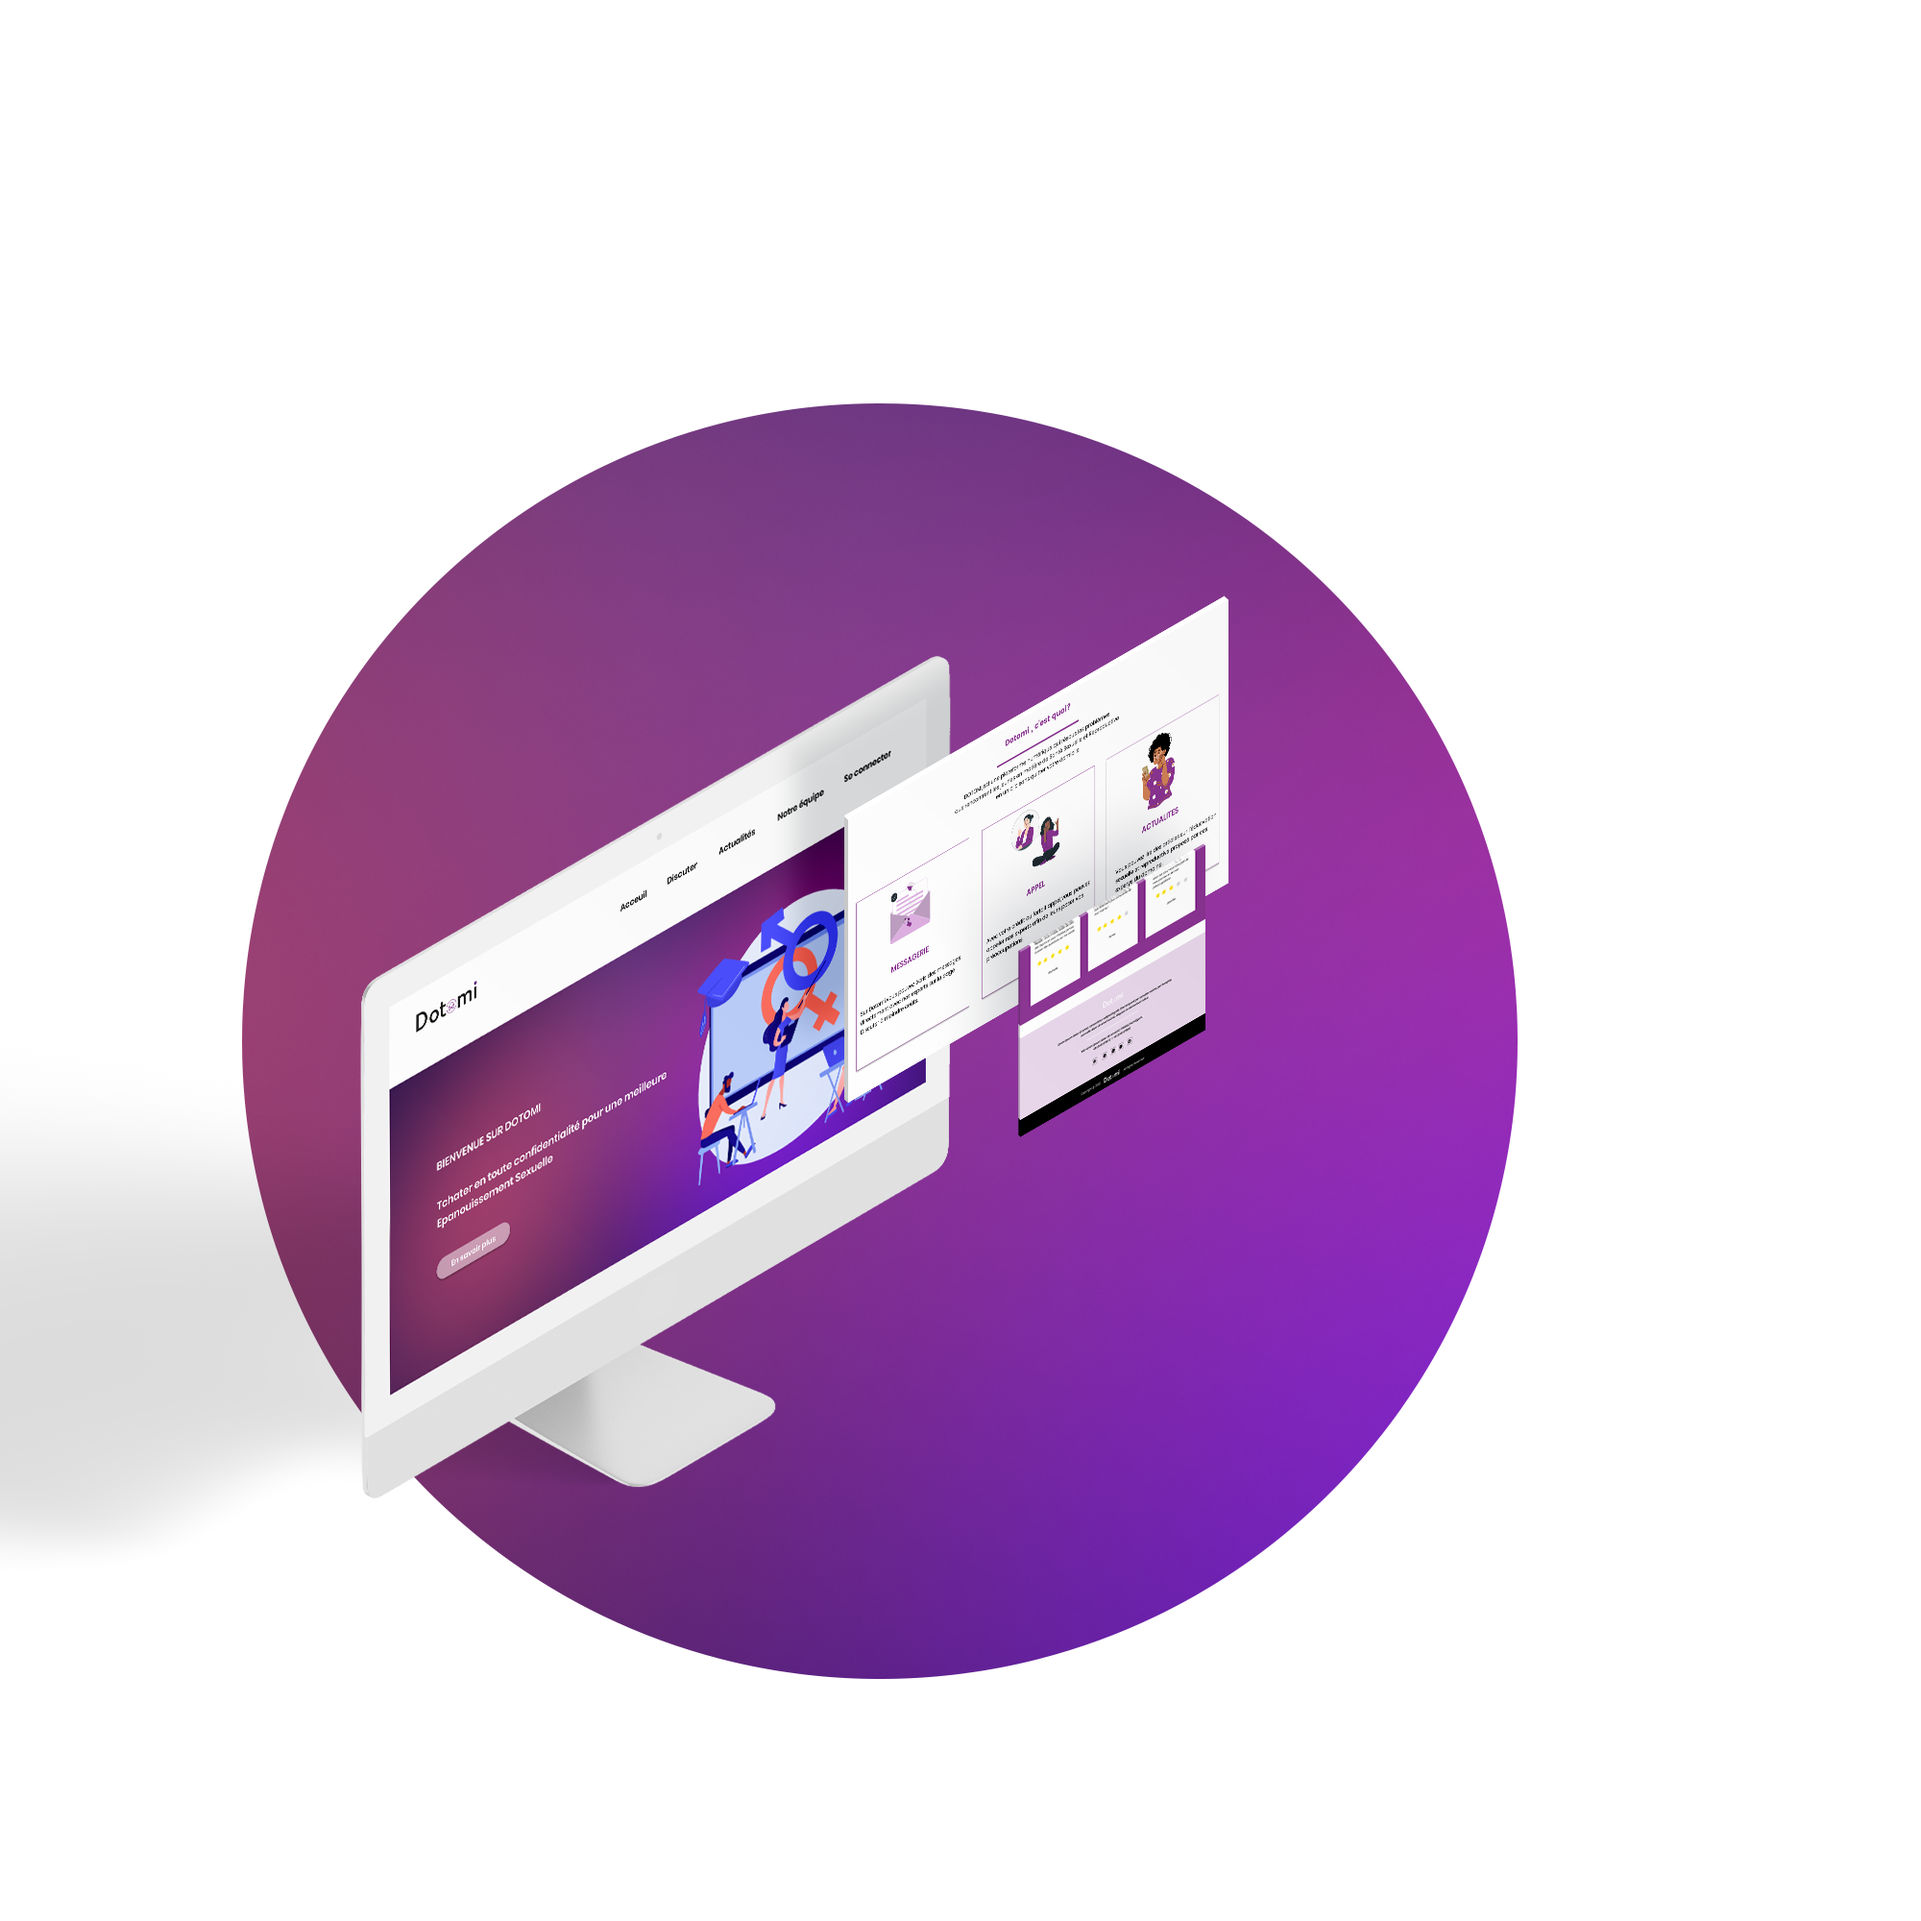
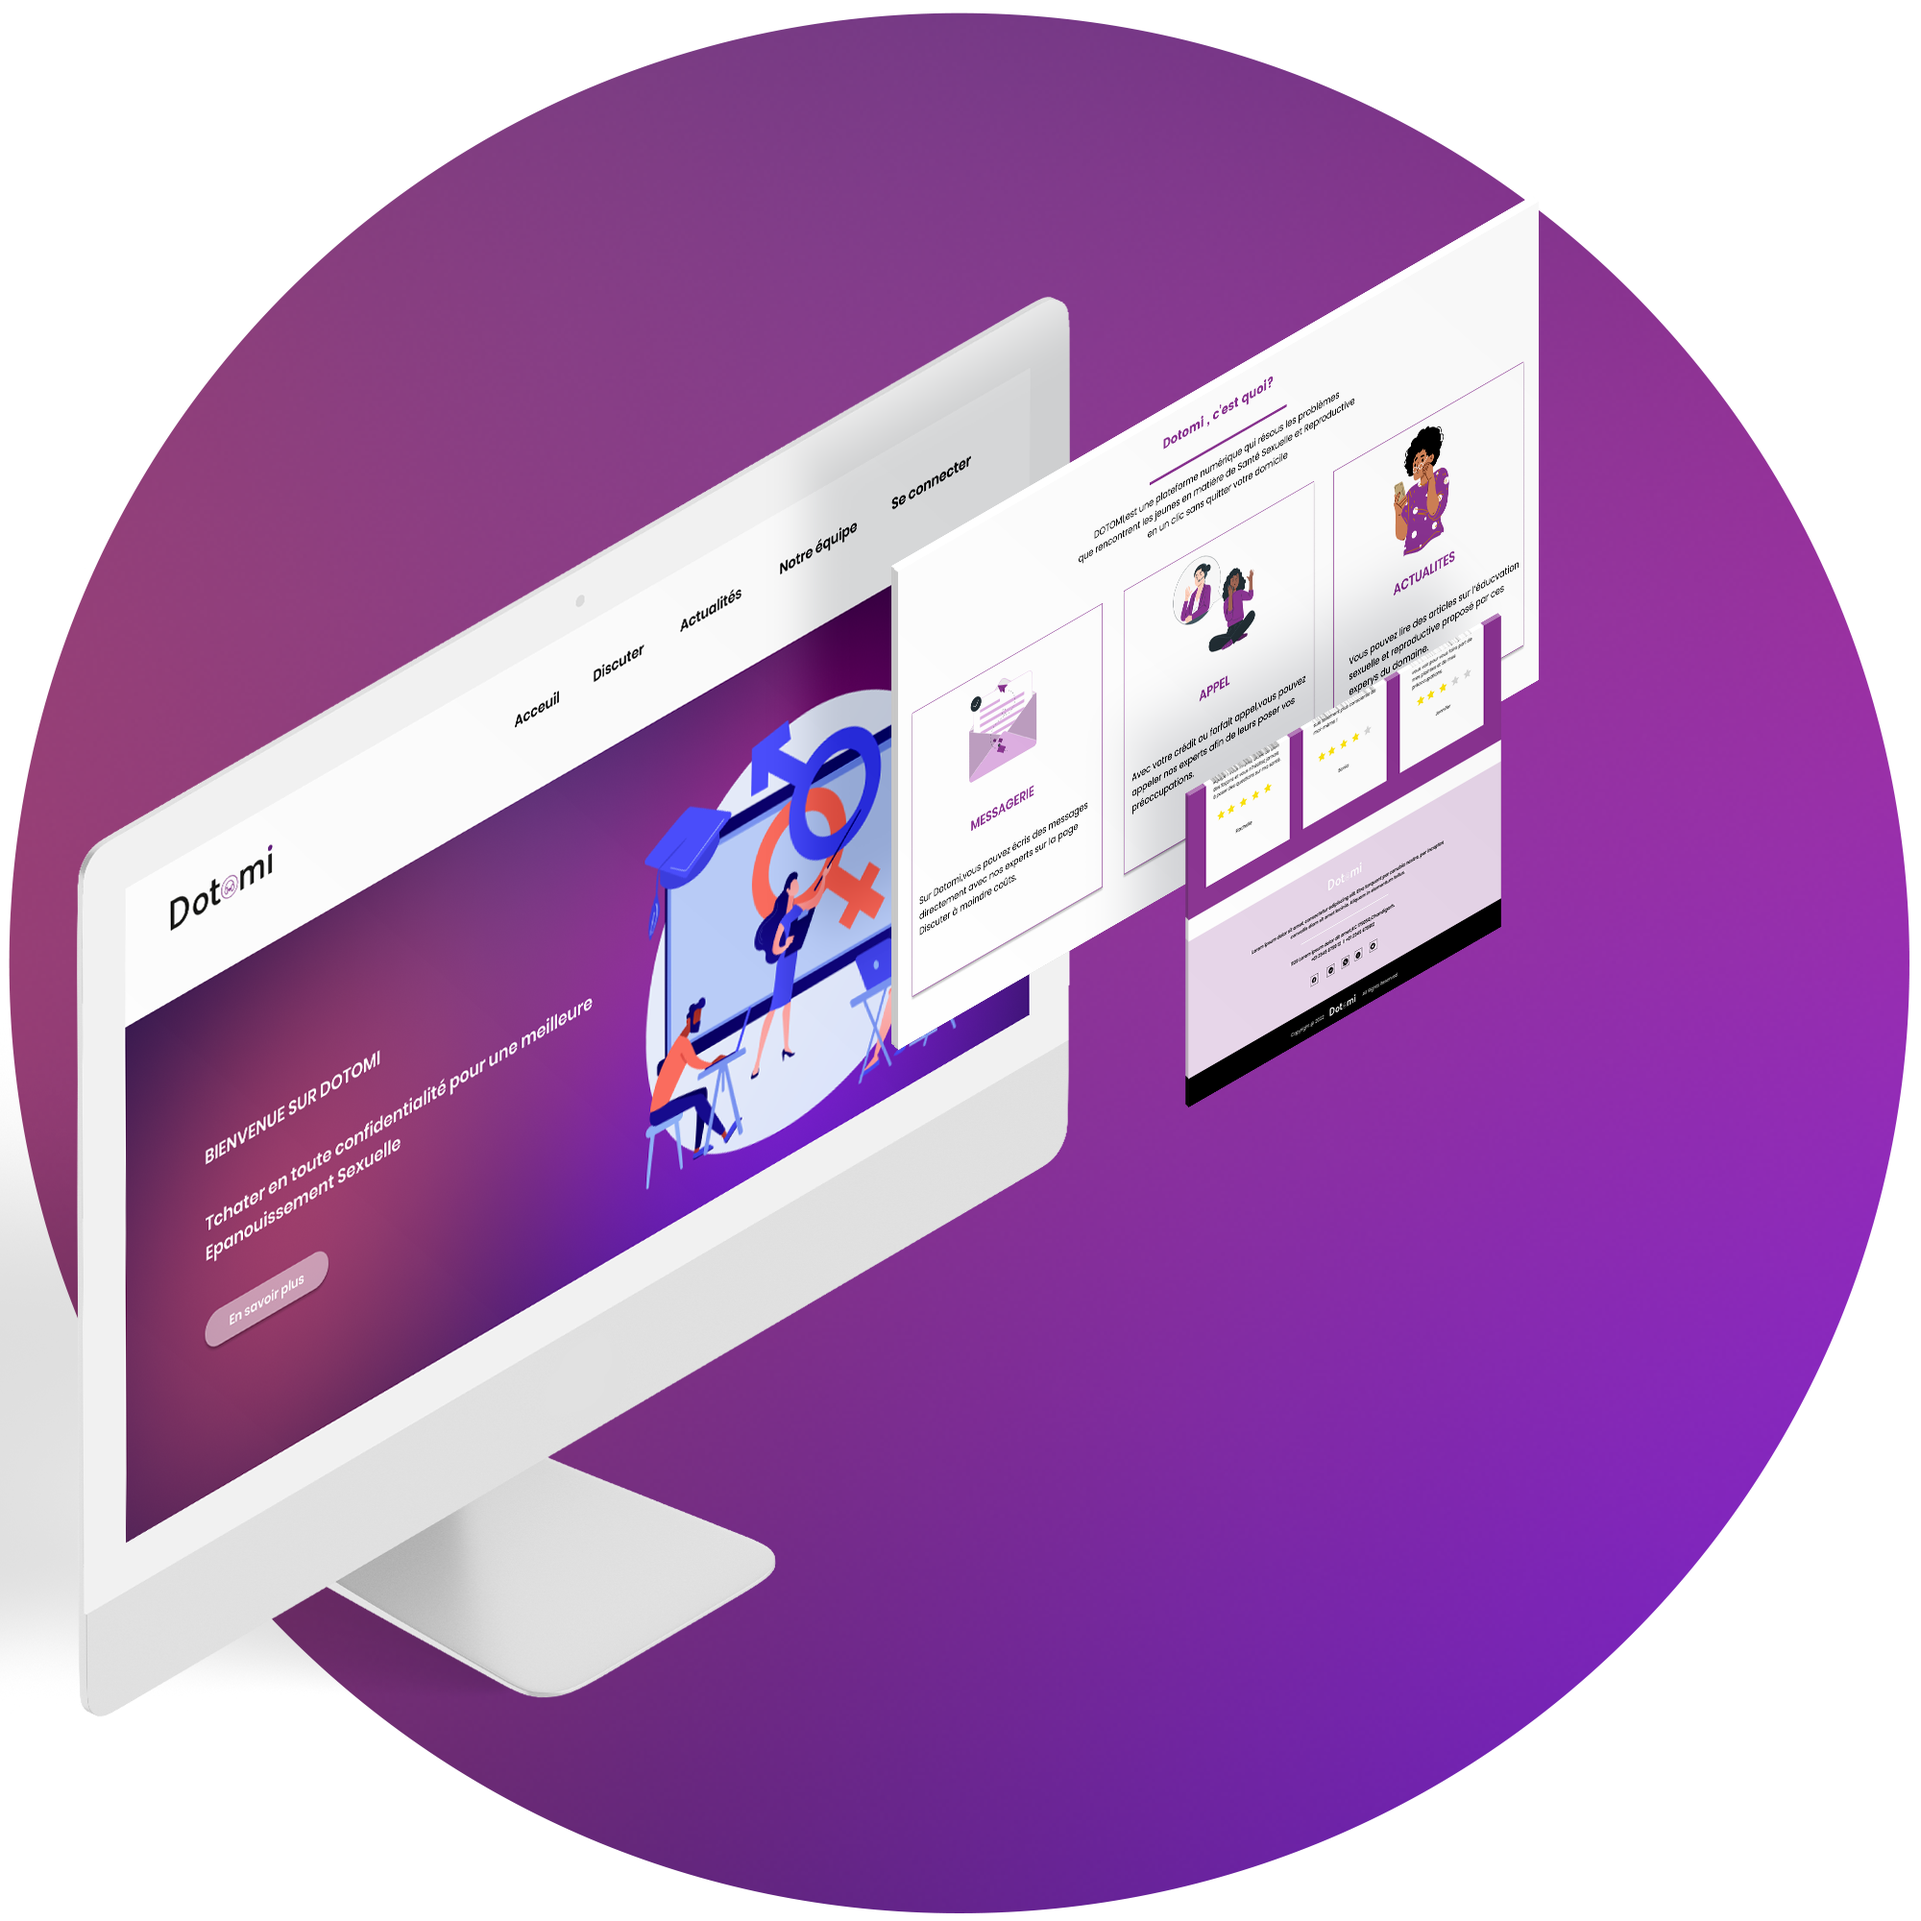
mise a jour

diff --git a/index.html b/index.html
@@ -128,24 +128,24 @@ https://templatemo.com/tm-540-lava-landing-page
                                 <img src="assets/images/about-icon-01.png" alt="">
                                 <div class="text">
                                     <h4>Messagerie</h4>
-                                    <p>Sur DOTOMI vous pouvez poser vos questions via la messagerie.<br> 
-                                    La messagerie est instantané  </p>
+                                    <p>Vous avez des préoccupations sur votre vie sexuelle ? Vous avez des questions qui vous taraude l'esprit ? 
+                                    La messagerie vous permet de discuter avec nos experts.</p>
                                 </div>
                             </li>
                             <li data-scroll-reveal="enter right move 30px over 0.6s after 0.5s">
                                 <img src="assets/images/about-icon-02.png" alt="">
                                 <div class="text">
                                     <h4>Actualités</h4>
-                                    <p>Sur DOTOMI la rubrique actualité vous permet d'avoir des informations sur la sexualité.
-                                    Vous pourriez  aussi lire  des articles sur l'évolution dans ce domaine </p>
+                                    <p>La rubrique actualités vous permet de vous informer sur les différents concepts de la santé sexuelle et réproductive.
+                                    </p>
                                 </div>
                             </li>
                             <li data-scroll-reveal="enter right move 30px over 0.6s after 0.6s">
                                 <img src="assets/images/about-icon-03.png" alt="">
                                 <div class="text">
                                     <h4>Appel Audio</h4>
-                                    <p>DOTOMI vous permet d'effectuer des appels audio directement avec des experts en santé
-                                        sexuelle pour  poser vos problèmes individuellement ou en couple
+                                    <p>Vous avez la possibilité ici d'avoir les échanges téléphonique avec nos experts.
+                                         Que vous soyez en couple ou non vous pouvez poser vos problèmes.
                                        
                                     </p>
                                 </div>

diff --git a/assets/css/templatemo-lava.css b/assets/css/templatemo-lava.css
@@ -801,7 +801,6 @@ promotion
 */
 
 .left-image-decor {
-  background-image: url(../images/left-bg-decor.png);
   background-repeat: no-repeat;
   position: absolute;
   width: 100%;
